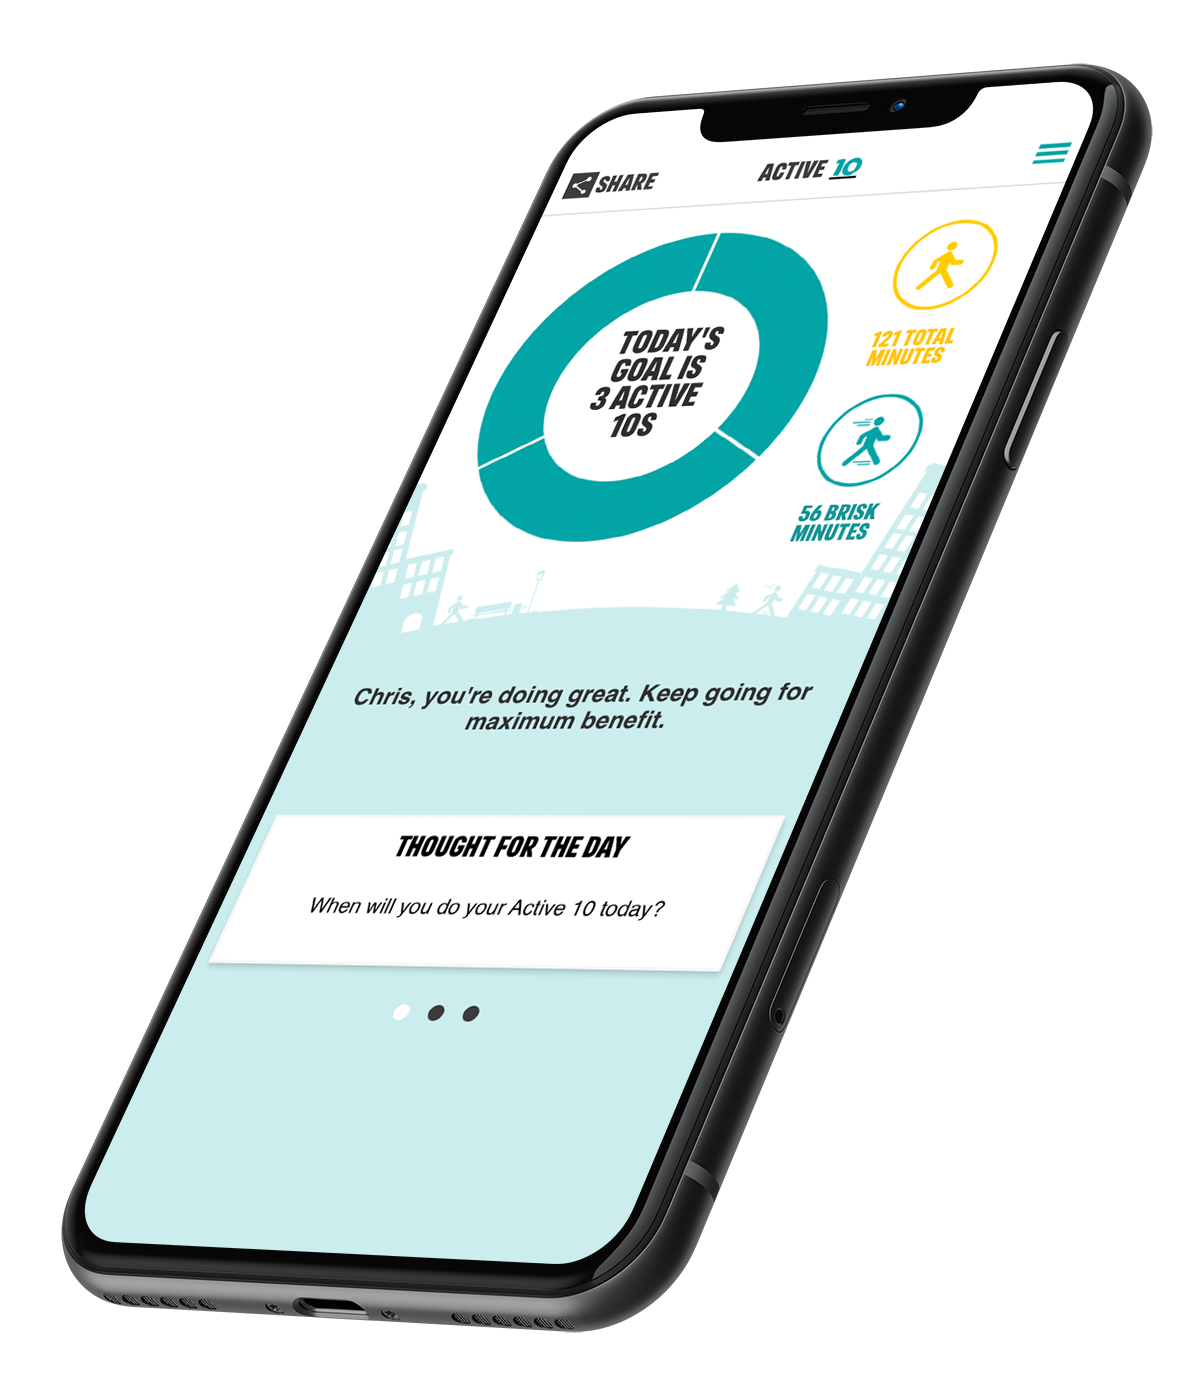
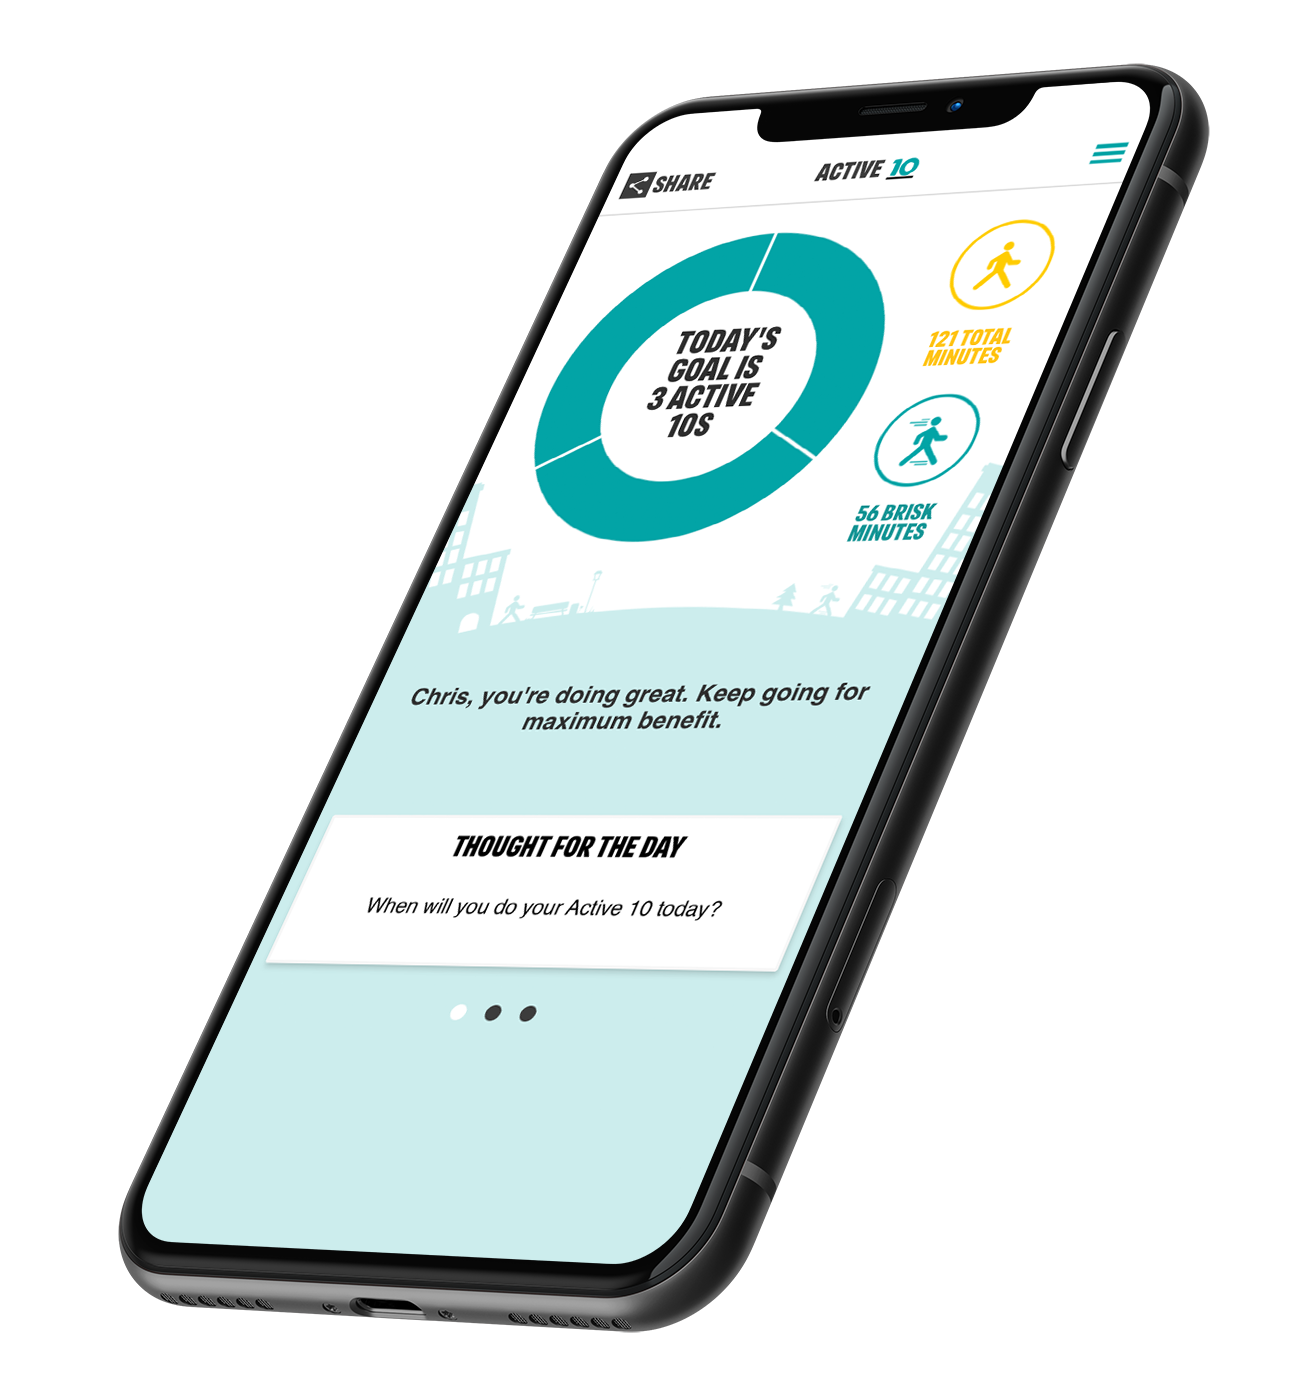
Moved hacw app below line on gallery

diff --git a/_sass/_cover.scss b/_sass/_cover.scss
@@ -28,10 +28,13 @@ section#cover{
     display: flex;
     align-items: flex-start;
     justify-content: center;
+    @include md{
+      margin-top: 4rem;
+    }
     img{
       position: absolute;
       width: 100%;
-      max-width: 50em;
+      max-width: 60em;
       -webkit-transition: opacity 1s ease-in-out;
       -moz-transition: opacity 1s ease-in-out;
       -o-transition: opacity 1s ease-in-out;
@@ -40,6 +43,9 @@ section#cover{
     }
     img.visible{
       opacity: 1;
+    }
+    img#hacw{
+      margin-top: 5rem;
     }
 
   }

diff --git a/_includes/cover.html b/_includes/cover.html
@@ -2,7 +2,7 @@
   <h2 class="strapline">We create seamless, user-centred mobile apps and websites</h2>
   <a href="#" class="button button-white icon-right">Scroll for more<i class="material-icons">keyboard_arrow_down</i></a>
   <div class="gallery">
-    <img src="/assets/images/hacw-mockup.png" alt="How A Car Works app on an iPhone">
+    <img id="hacw" src="/assets/images/hacw-mockup.png" alt="How A Car Works app on an iPhone">
     <img src="/assets/images/active10-mockup.png" alt="Active 10 app on an iPhone">
   </div>
 </section>

diff --git a/_includes/header.html b/_includes/header.html
@@ -1,6 +1,6 @@
 <header>
   <section id="navbar">
-    <h1 class="logo"><a href="/">Octave | Web Design London</a></h1>
+    <h1 class="logo"><a href="/">Octave | Mobile App Development London</a></h1>
     <nav>
       <ul>
 <!--        <li><a href="#">About</a></li>-->
